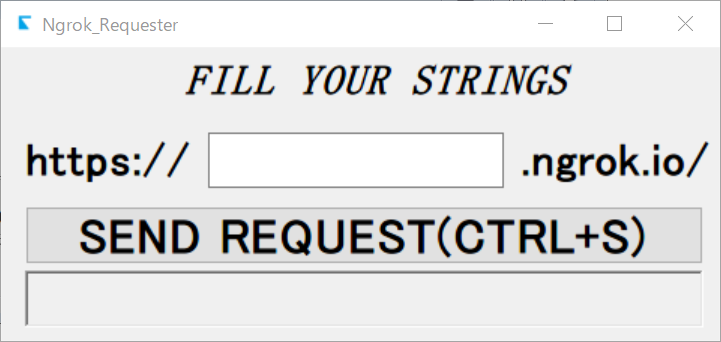
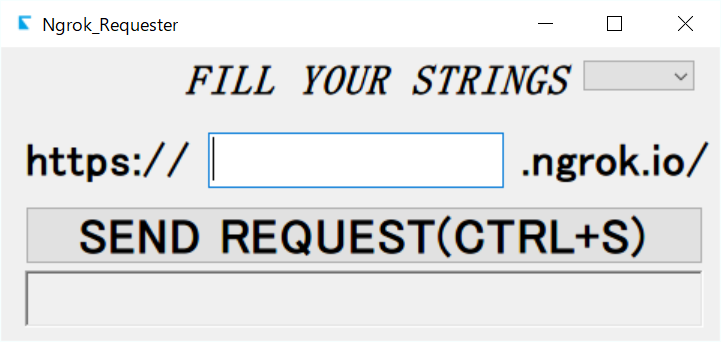
シリアルポート監視機能搭載！

diff --git a/Requester/Form1.Designer.cs b/Requester/Form1.Designer.cs
@@ -28,6 +28,7 @@
         /// </summary>
         private void InitializeComponent()
         {
+            this.components = new System.ComponentModel.Container();
             System.ComponentModel.ComponentResourceManager resources = new System.ComponentModel.ComponentResourceManager(typeof(Form1));
             this.textBox1 = new System.Windows.Forms.TextBox();
             this.label1 = new System.Windows.Forms.Label();
@@ -35,6 +36,8 @@
             this.button1 = new System.Windows.Forms.Button();
             this.label3 = new System.Windows.Forms.Label();
             this.richTextBox1 = new System.Windows.Forms.RichTextBox();
+            this.comboBox1 = new System.Windows.Forms.ComboBox();
+            this.serialPort1 = new System.IO.Ports.SerialPort(this.components);
             this.SuspendLayout();
             // 
             // textBox1
@@ -102,11 +105,25 @@
             this.richTextBox1.TextChanged += new System.EventHandler(this.richTextBox1_TextChanged);
             this.richTextBox1.KeyDown += new System.Windows.Forms.KeyEventHandler(this.textBox1_KeyDown);
             // 
+            // comboBox1
+            // 
+            this.comboBox1.FormattingEnabled = true;
+            this.comboBox1.Location = new System.Drawing.Point(647, 14);
+            this.comboBox1.Name = "comboBox1";
+            this.comboBox1.Size = new System.Drawing.Size(121, 26);
+            this.comboBox1.TabIndex = 6;
+            this.comboBox1.SelectedIndexChanged += new System.EventHandler(this.comboBox1_SelectedIndexChanged);
+            // 
+            // serialPort1
+            // 
+            this.serialPort1.DataReceived += new System.IO.Ports.SerialDataReceivedEventHandler(this.serialPort1_DataReceived);
+            // 
             // Form1
             // 
             this.AutoScaleDimensions = new System.Drawing.SizeF(10F, 18F);
             this.AutoScaleMode = System.Windows.Forms.AutoScaleMode.Font;
             this.ClientSize = new System.Drawing.Size(798, 294);
+            this.Controls.Add(this.comboBox1);
             this.Controls.Add(this.richTextBox1);
             this.Controls.Add(this.label3);
             this.Controls.Add(this.button1);
@@ -131,6 +148,8 @@
         private System.Windows.Forms.Button button1;
         private System.Windows.Forms.Label label3;
         private System.Windows.Forms.RichTextBox richTextBox1;
+        private System.Windows.Forms.ComboBox comboBox1;
+        private System.IO.Ports.SerialPort serialPort1;
     }
 }
 

diff --git a/Requester/Form1.cs b/Requester/Form1.cs
@@ -9,6 +9,7 @@ using System.Net.Http;
 using System.Text;
 using System.Threading.Tasks;
 using System.Windows.Forms;
+using System.IO.Ports;
 
 namespace Requester
 {
@@ -17,7 +18,19 @@ namespace Requester
         public Form1()
         {
             InitializeComponent();
+            comboBox1.DropDownStyle = ComboBoxStyle.DropDownList;
+            string[] ports = SerialPort.GetPortNames();
+            foreach (string port in ports)
+            {
+                comboBox1.Items.Add(port);
+                Console.WriteLine(port);
+                comboBox1.SelectedItem = port;
+                serialPort1.Close();
+                serialPort1.PortName = port;
+                serialPort1.Open();
+            }
         }
+    
 
         private void radioButton1_CheckedChanged(object sender, EventArgs e)
         {
@@ -119,6 +132,33 @@ namespace Requester
 
                 WaitResponse();
             }
+        }
+
+        private void comboBox1_SelectedIndexChanged(object sender, EventArgs e)
+        {
+            serialPort1.Close();
+            string port = (String)comboBox1.SelectedItem;
+            Console.WriteLine(port);
+            serialPort1.PortName = port;
+            serialPort1.Open();
+        }
+
+        private void serialPort1_DataReceived(object sender, System.IO.Ports.SerialDataReceivedEventArgs e)
+        {
+            try
+            {
+                string data = serialPort1.ReadLine();
+                if (!string.IsNullOrEmpty(data))
+                {
+                    Console.WriteLine(data);
+                    SendKeys.SendWait("^S");
+                }
+            }
+            catch (Exception ex)
+            {
+                MessageBox.Show(ex.Message);
+            }
+
         }
     }
 }

diff --git a/README.md b/README.md
@@ -8,6 +8,8 @@ Ngrok Requester
 ## Description
 ngrokのURLにGETリクエストにワンクリックでGETリクエストを送ります([文字列].ngrok.io/のみ)
 
+※ver 1.1 からシリアルポートを監視してデータが来たら、GETリクエストを送れるようになりました。
+
 ## Demo
 ![demo画像](https://github.com/reud/Ngrok_Requester/blob/master/Requester/demo.PNG?raw=true "Demo")
 
@@ -16,6 +18,8 @@ ngrokのURLにGETリクエストにワンクリックでGETリクエストを送
 ## Usage
 中央にあるテキストボックスに生成された文字列を入力してボタンを押すだけ！(CTRL+Sでも可)
 出力結果はボタンの下に出力されます。
+
+※シリアルポートからデータが来たらリクエストを送るようにしたい場合、右上から該当ポートを選択してください。
 
 
 ## Licence
